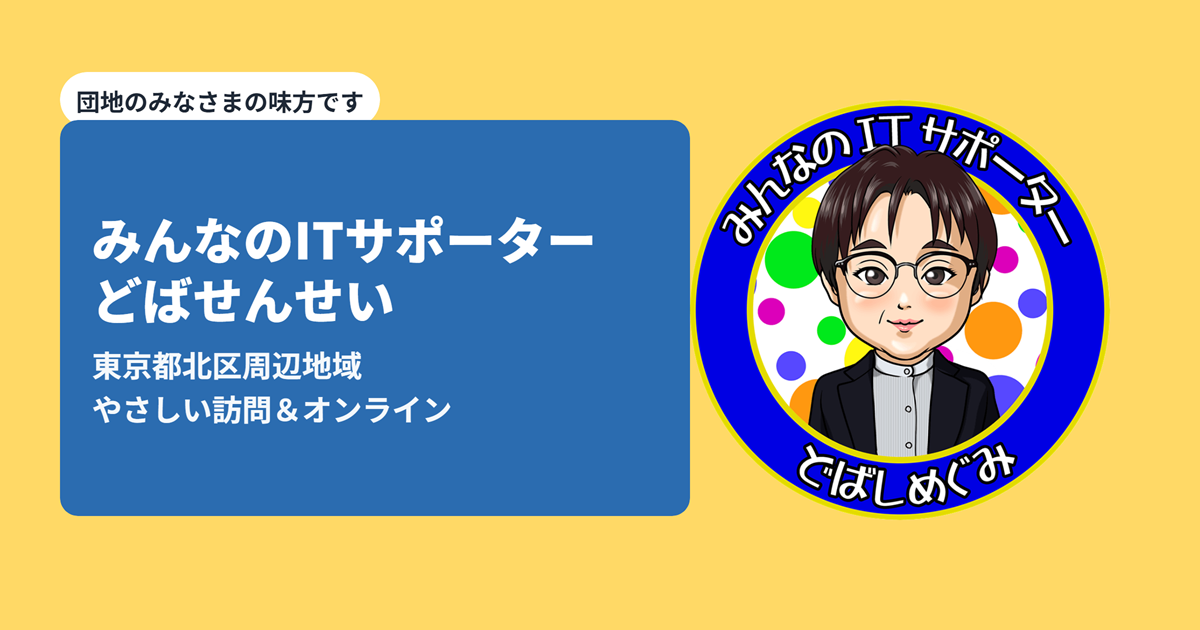
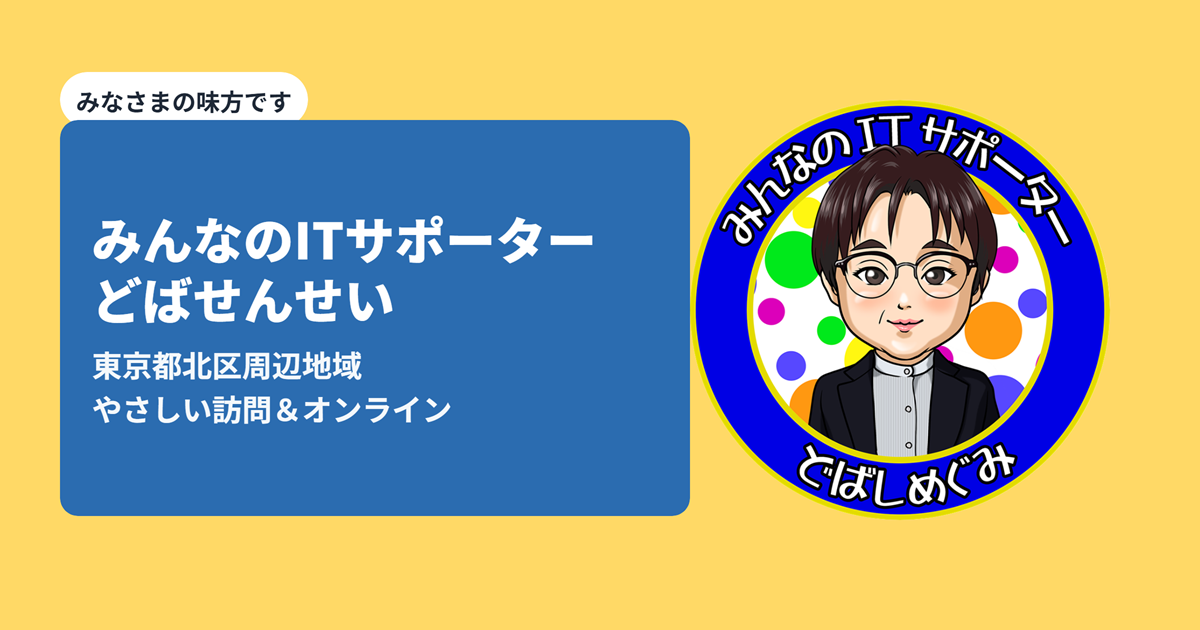
20250817_index,html_修正,ogp.png文言修正

Changed region(s): [[0.0617, 0.0905, 0.3392, 0.2111]]

diff --git a/index.html b/index.html
@@ -30,7 +30,7 @@
 <meta property="og:title" content="みんなのITサポーターどば先生｜北区周辺のやさしい訪問サポート">
 <meta property="og:description" content="スマホ・パソコンの設定、LINE、写真整理、Wi-Fi、宿題サポートまで。女性スタッフ1名が最初から最後まで対応。初回60分1,000円。">
 <meta property="og:url" content="https://www.anraku-dobasensei.net/">
-<meta property="og:image" content="https://www.anraku-dobasensei.net/ogp.png?v=3">
+<meta property="og:image" content="https://www.anraku-dobasensei.net/ogp.png?v=4">
 <meta property="og:image:width" content="1200">
 <meta property="og:image:height" content="630">
 
@@ -40,7 +40,7 @@
 <meta name="twitter:site" content="@D_Worker864256">
 <meta name="twitter:title" content="みんなのITサポーターどば先生｜北区周辺のやさしい訪問サポート">
 <meta name="twitter:description" content="スマホ・パソコンの設定、LINE、写真整理、Wi-Fi、宿題サポートまで。女性スタッフ1名が対応。初回60分1,000円。">
-<meta name="twitter:image" content="https://www.anraku-dobasensei.net/ogp.png?v=3">
+<meta name="twitter:image" content="https://www.anraku-dobasensei.net/ogp.png?v=4">
 
 
 <!-- JSON-LD（分割） -->

diff --git a/tools/ogp-maker.html b/tools/ogp-maker.html
@@ -56,7 +56,7 @@
 
   <!-- キャンバス -->
   <div id="stage" aria-label="OGP preview">
-    <div class="tag">団地のみなさまの味方です</div>
+    <div class="tag">みなさまの味方です</div>
 
     <img id="logo" class="logo" src="../assets/img/doba-logo.png" alt="どば先生ロゴ">
 
